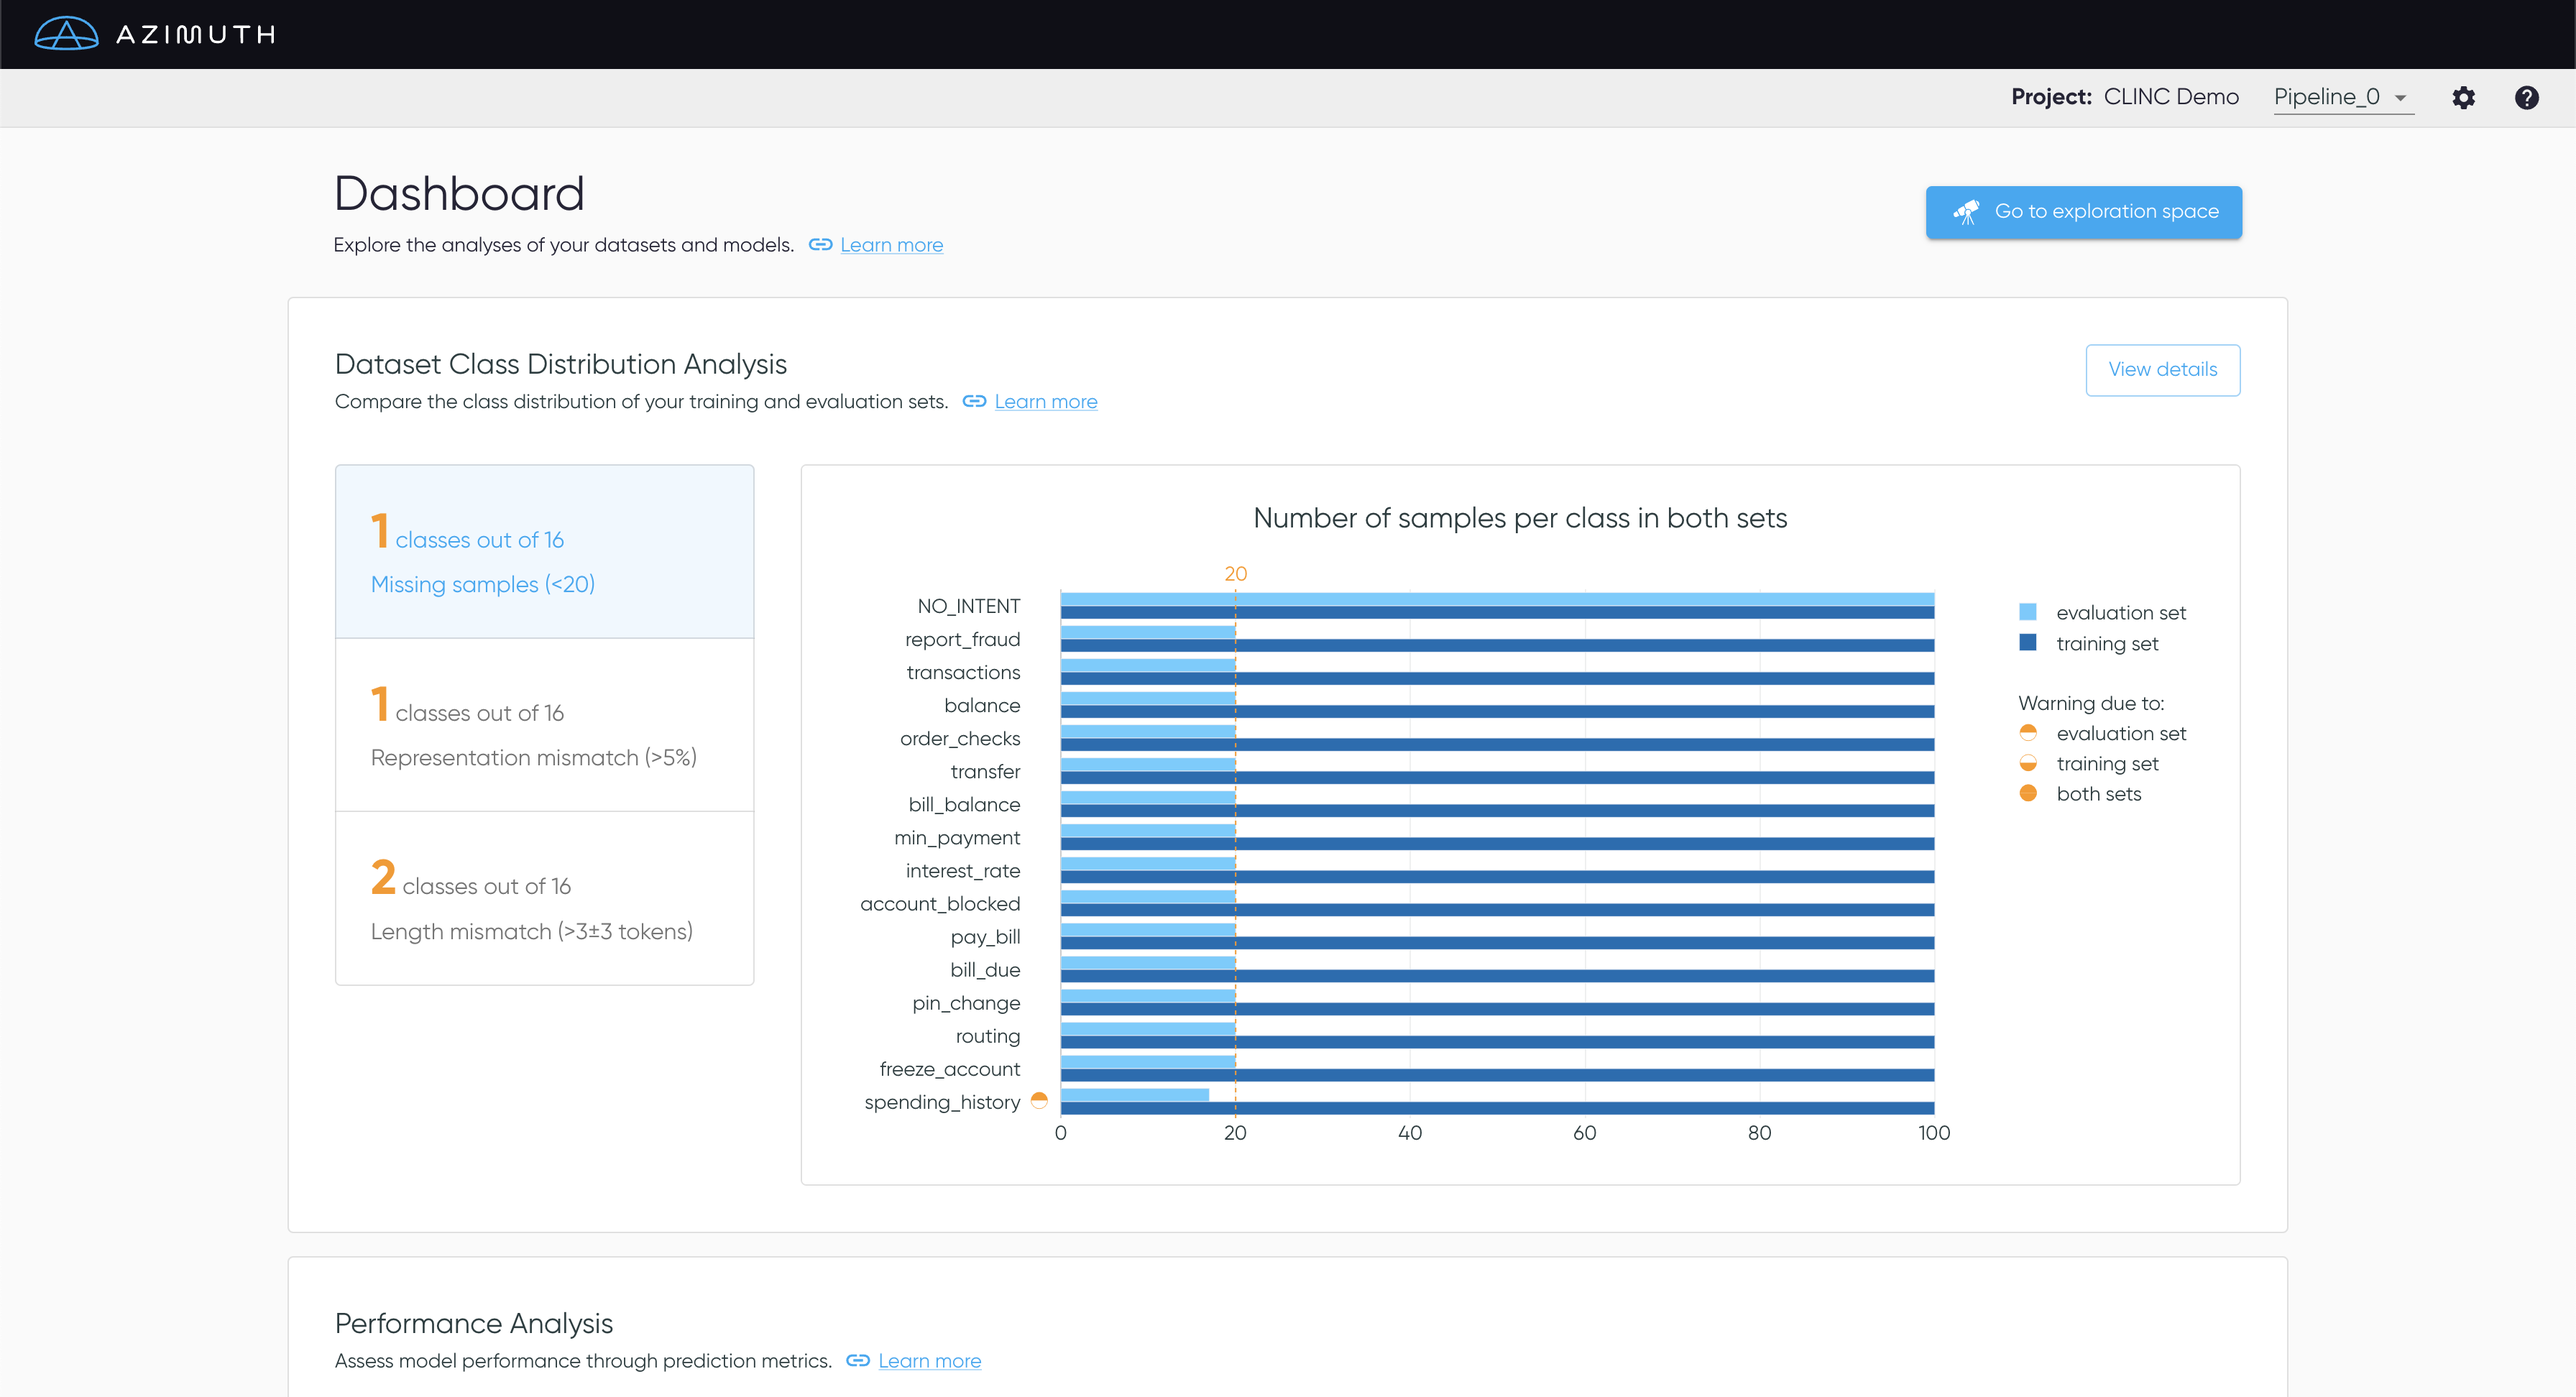
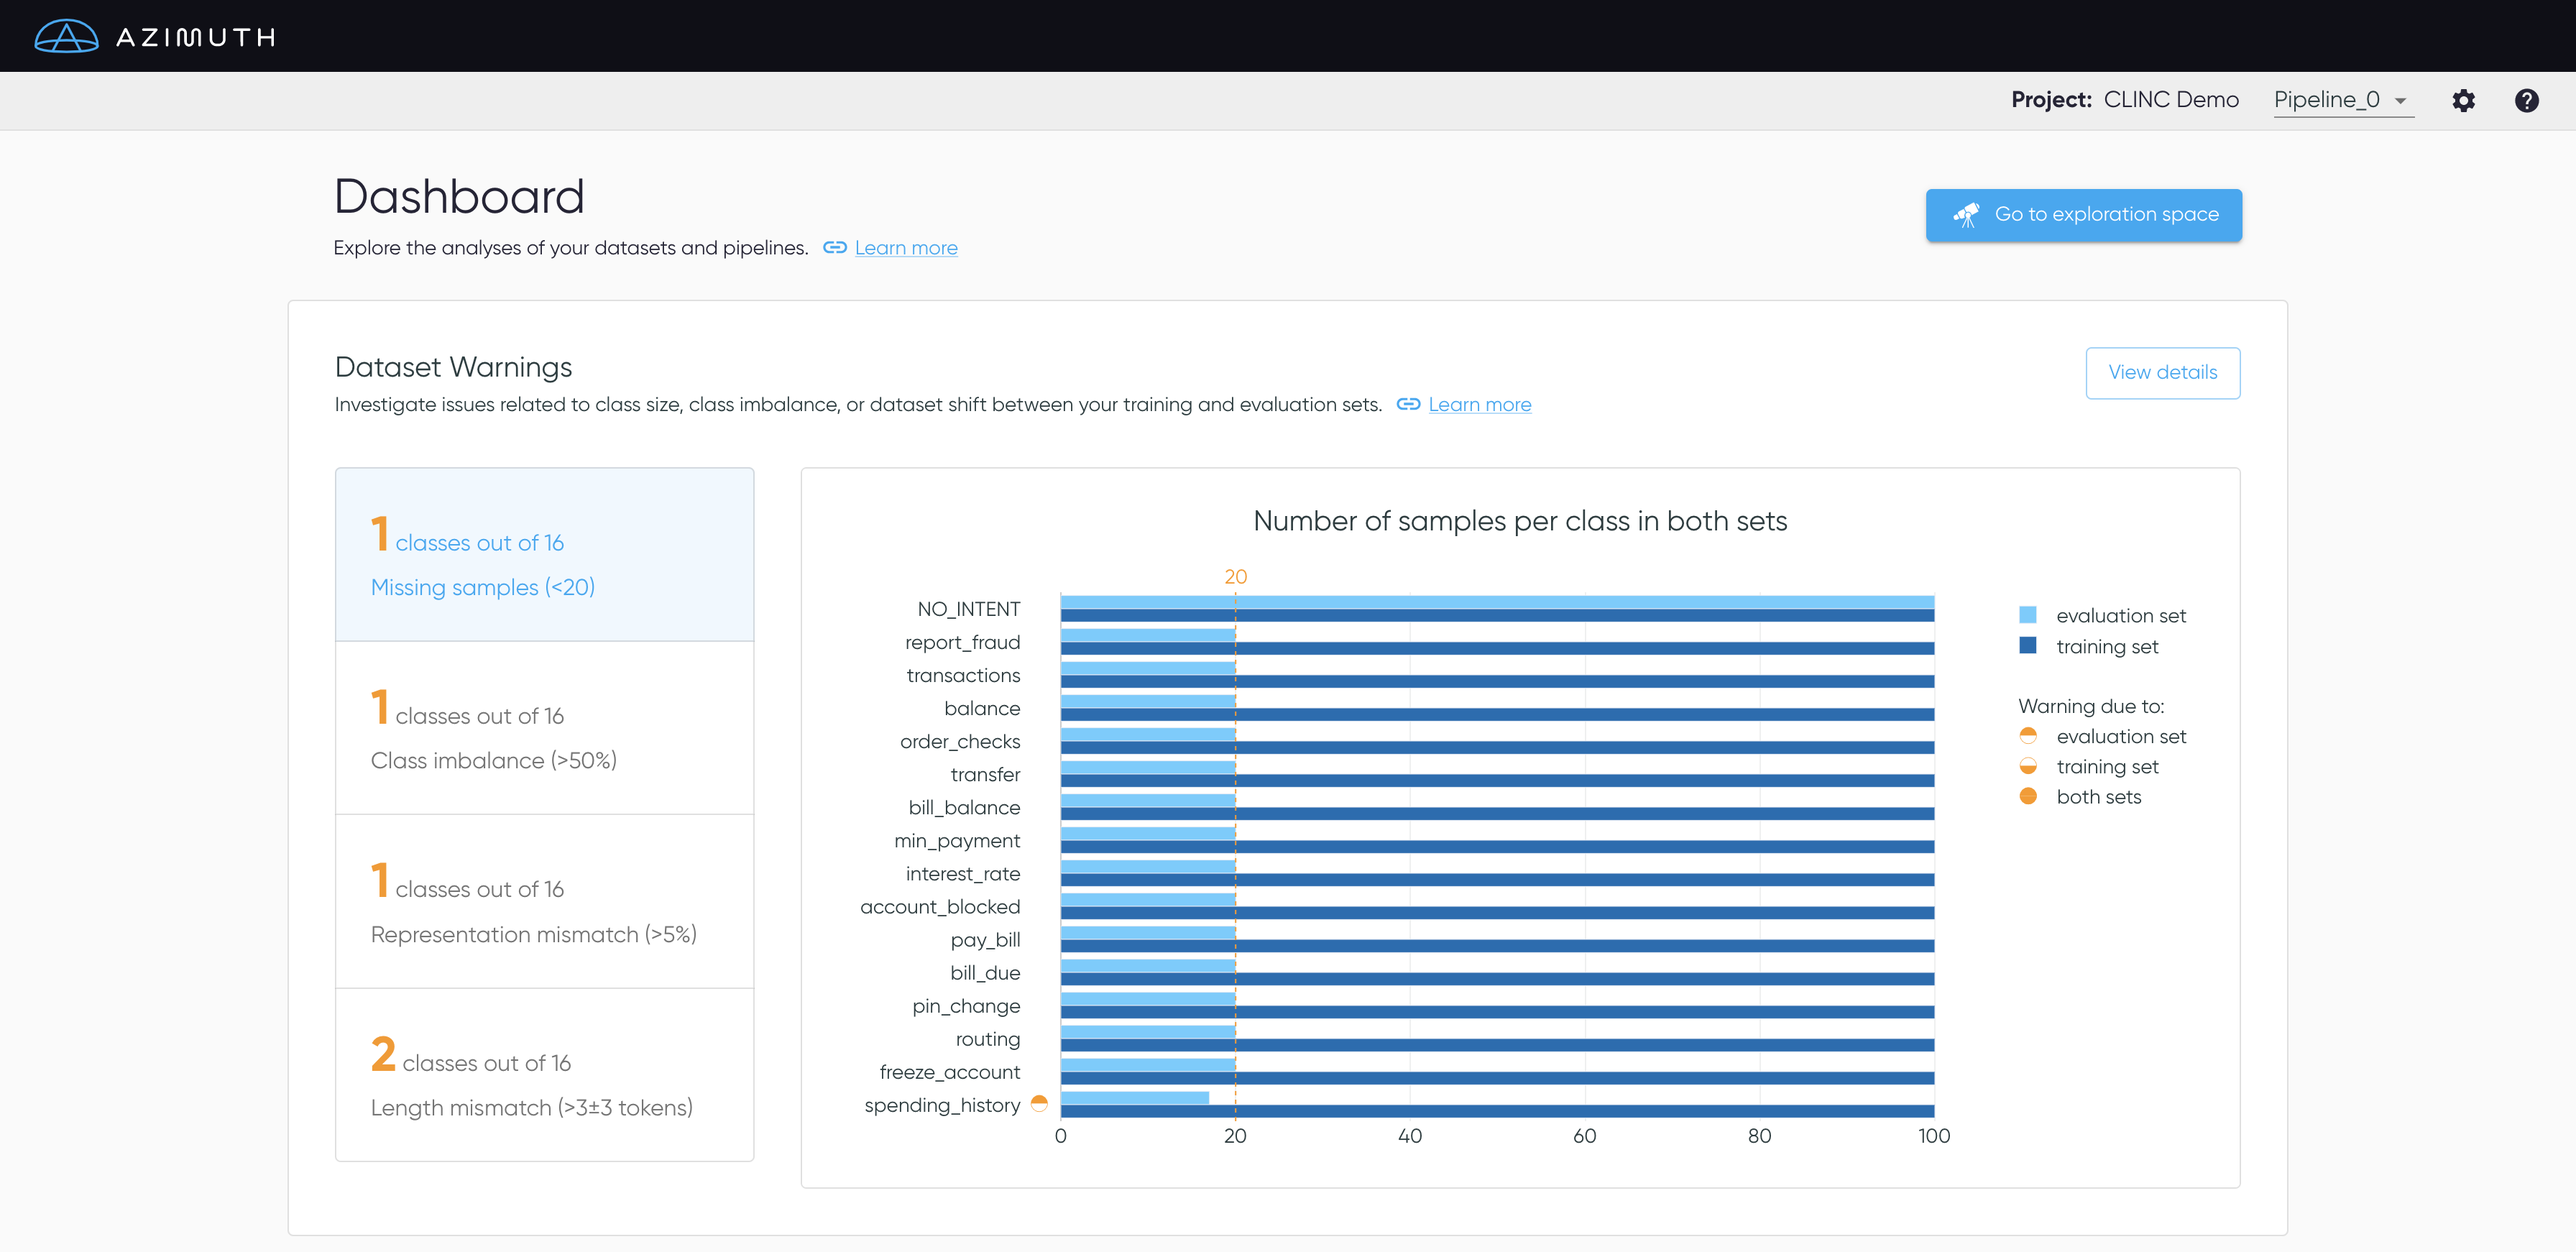
Add screenshot, rename sections and revert changes

diff --git a/docs/docs/user-guide/index.md b/docs/docs/user-guide/index.md
@@ -37,7 +37,7 @@ The top banner contains useful information and links.
 
 The dataset warnings section highlights issues related to **class size**, **class imbalance** and **dataset shift**, i.e. differences between the data distributions of the training and the evaluation sets.
 
-![Screenshot](../_static/images/dashboard/dataset-class-distribution-analysis.png) #TODO
+![Screenshot](../_static/images/dashboard/dataset-warnings.png)
 
 * **Missing samples**: Verify if each intent has sufficient samples in both sets.
 * **Class imbalance**: Flag when some classes suffer from imbalance in either split.
@@ -47,14 +47,14 @@ The dataset warnings section highlights issues related to **class size**, **clas
 
 Select `View Details` to get to [:material-link: Dataset Warnings](dataset-warnings.md).
 
-## Prediction Quality by Data Subpopulation
+## Pipeline Metrics by Data Subpopulation
 
 This section summarizes the quality of the predictions in terms of the [**prediction
-outcomes**](../key-concepts/outcomes.md) and **metrics** available in Azimuth, for different data subpopulations. Change the value in the dropdown :material-arrow-down-drop-circle-outline: to see the metrics broken down per label, predicted class, or smart tag families. Use the toggle to alternate between the performance on the training set or on the evaluation set.
+outcomes**](../key-concepts/outcomes.md) and **metrics** available in Azimuth, for different data subpopulations. Change the value in the dropdown :material-arrow-down-drop-circle-outline: to see the metrics broken down per label, predicted class, or smart tag families. Use the toggle to alternate between the training set or on the evaluation set.
 
 The user can click on any row in the table to get directly to the exploration space with the corresponding filters applied. This allows for further investigation of errors. As an example, clicking on the row with the label `freeze_account` will bring the user to the exploration space with that same filter applied. This works with prediction classes and smart tags too.
 
-Click on `Compare pipelines` to display the table fullscreen and compare all metrics across pipelines, as explained in [Prediction Quality Comparison](prediction-quality-comparison.md).
+Click on `Compare pipelines` to display the table fullscreen and compare all metrics across pipelines, as explained in [Pipeline Metrics Comparison](pipeline-metrics-comparison.md).
 
 !!! tip "Sort the table and hide columns"
 
@@ -66,7 +66,7 @@ Click on `Compare pipelines` to display the table fullscreen and compare all met
     corresponding column, or multiple ones by selecting 'Show columns'. However, the table columns
     will reappear if the page is refreshed.
 
-![Screenshot](../_static/images/dashboard/performance-analysis.png) #TODO
+![Screenshot](../_static/images/dashboard/pipeline-metrics.png)
 
 !!! tip "Go to the exploration space to interact with metrics"
 

diff --git a/docs/docs/user-guide/exploration-space/index.md b/docs/docs/user-guide/exploration-space/index.md
@@ -2,7 +2,7 @@
 
 The Exploration Space includes the datasets and predictions of your model in an interactive way.
 Explore the utterances and the predictions, spot patterns in errors, and annotate the data to
-trigger further work to improve the model's performance.
+trigger further work to improve the model's predictions.
 
 ![Screenshot](../../_static/images/exploration-space/performance-overview.png)
 
@@ -23,7 +23,7 @@ panel. Both training and evaluation sets can be explored.
     pipelines compare. This space also exists without selecting any pipelines, to perform dataset
     analysis.
 
-### [Performance Overview](performance-overview.md)
+### [Prediction Overview](performance-overview.md)
 
 * Assess the quality of the metrics for any given subset of the data.
 * Visualize the distribution of the confidence scores, according to prediction outcome.
@@ -33,7 +33,7 @@ panel. Both training and evaluation sets can be explored.
 
 * Visualize the model confusion between each pair of intents.
 
-### [Utterances Table](utterances-table.md)
+### [Utterance Table](utterance-table.md)
 
 * Explore the utterances, with their labels, predictions, and smart tags.
 * Access all utterance details, including the detailed prediction results, the behavioral tests, and
@@ -113,8 +113,8 @@ filters are listed below.
   filters** within a category, respectively `NO_SMART_TAGS` and `NO_ACTION`.
 
 ##### Search
+![Screenshot](../../_static/images/control-panel/filter-search.png){: style="width:400px"}
 
 * Use the search bar to find specific filters.
-  ![Screenshot](../../_static/images/control-panel/filter-search.png){: style="width:400px"}
 
 --8<-- "includes/abbreviations.md"

diff --git a/docs/docs/user-guide/dataset-warnings.md b/docs/docs/user-guide/dataset-warnings.md
@@ -2,10 +2,10 @@
 
 Datasets can suffer from a variety of issues, such as class imbalance, classes with low sample counts, and dataset shift. These warnings help detect some of these issues.
 
-![](../_static/images/dataset-class-distribution-analysis/dataset-warnings-1.png)
-![](../_static/images/dataset-class-distribution-analysis/dataset-warnings-2.png)
-![](../_static/images/dataset-class-distribution-analysis/dataset-warnings-3.png)
-TODO
+![](../_static/images/dataset-warnings/dataset-warnings-1.png)
+![](../_static/images/dataset-warnings/dataset-warnings-2.png)
+![](../_static/images/dataset-warnings/dataset-warnings-3.png)
+![](../_static/images/dataset-warnings/dataset-warnings-4.png)
 
 ## Missing samples
 

diff --git a/docs/docs/user-guide/exploration-space/performance-overview.md b/docs/docs/user-guide/exploration-space/performance-overview.md
@@ -1,13 +1,13 @@
-# Performance Overview
+# Prediction Overview
 
-The Performance Overview centralizes the **metrics**, the **confidence histogram** and two **word
+The Prediction Overview centralizes the **metrics**, the **confidence histogram** and two **word
 clouds** to show important words from the utterances.
 
 ![Screenshot](../../_static/images/exploration-space/performance-overview.png)
 
 ## Metrics
 
-Assess the quality of the model with different performance metrics. Hover over the information icon
+Assess the quality of the model with different metrics. Hover over the information icon
 to see more information on each metric.
 
 ![Screenshot](../../_static/images/exploration-space/metrics.png)

diff --git a/docs/docs/user-guide/pipeline-metrics-comparison.md b/docs/docs/user-guide/pipeline-metrics-comparison.md
@@ -1,5 +1,5 @@
-# Prediction Quality Comparison
+# Pipeline Metrics Comparison
 
-![Screenshot](../_static/images/prediction-quality-comparison.png)
+![Screenshot](../_static/images/pipeline-metrics-comparison.png)
 
 This table summarizes the quality of the predictions for different data subpopulations. When selecting a second model next to `Compare Baseline with`, the table will display the metrics for both the baseline and the second model, along with delta columns that show the difference for each metric and subpopulation. All interactions available from the [Dashboard](index.md) are also available here, including the ability to sort and hide columns, and to click on a row.

diff --git a/docs/docs/key-concepts/proposed-actions.md b/docs/docs/key-concepts/proposed-actions.md
@@ -3,7 +3,7 @@
 In the utterance table or the utterance details, annotations can be added to indicate whether an
 action should be taken for each data sample. The annotations can be exported with
 the dataset from
-the [:material-link: Utterances Table](../user-guide/exploration-space/utterances-table.md).
+the [:material-link: Utterances Table](../user-guide/exploration-space/utterance-table.md).
 
 <figure markdown>
   ![Image title](../_static/images/key-concepts/proposed-actions.png)

diff --git a/docs/docs/user-guide/exploration-space/utterance-table.md b/docs/docs/user-guide/exploration-space/utterance-table.md
@@ -3,7 +3,7 @@
 The utterance table view contains **all the utterances with their predictions**. The table also
 includes information such as smart tags and proposed actions, if applicable.
 
-![](../../_static/images/exploration-space/utterances-table.png)
+![](../../_static/images/exploration-space/utterance-table.png)
 
 To see **more details on an utterance**, click any row, which will open
 the [:material-link: Utterance Details](utterance-details.md) page.

diff --git a/docs/docs/getting-started/c-run.md b/docs/docs/getting-started/c-run.md
@@ -131,7 +131,6 @@ They are the following:
 * Specify the name of the project, passing `NAME`.
 * You can specify the device on which to run Azimuth, with `DEVICE` being one of `auto`, `gpu` or `cpu`. If
   none is provided, `auto` will be used. Ex: `DEVICE=gpu`.
-* AZ_LOCKED=1 #TODO
 
 !!! note "Config file prevails over environment variables"
 
